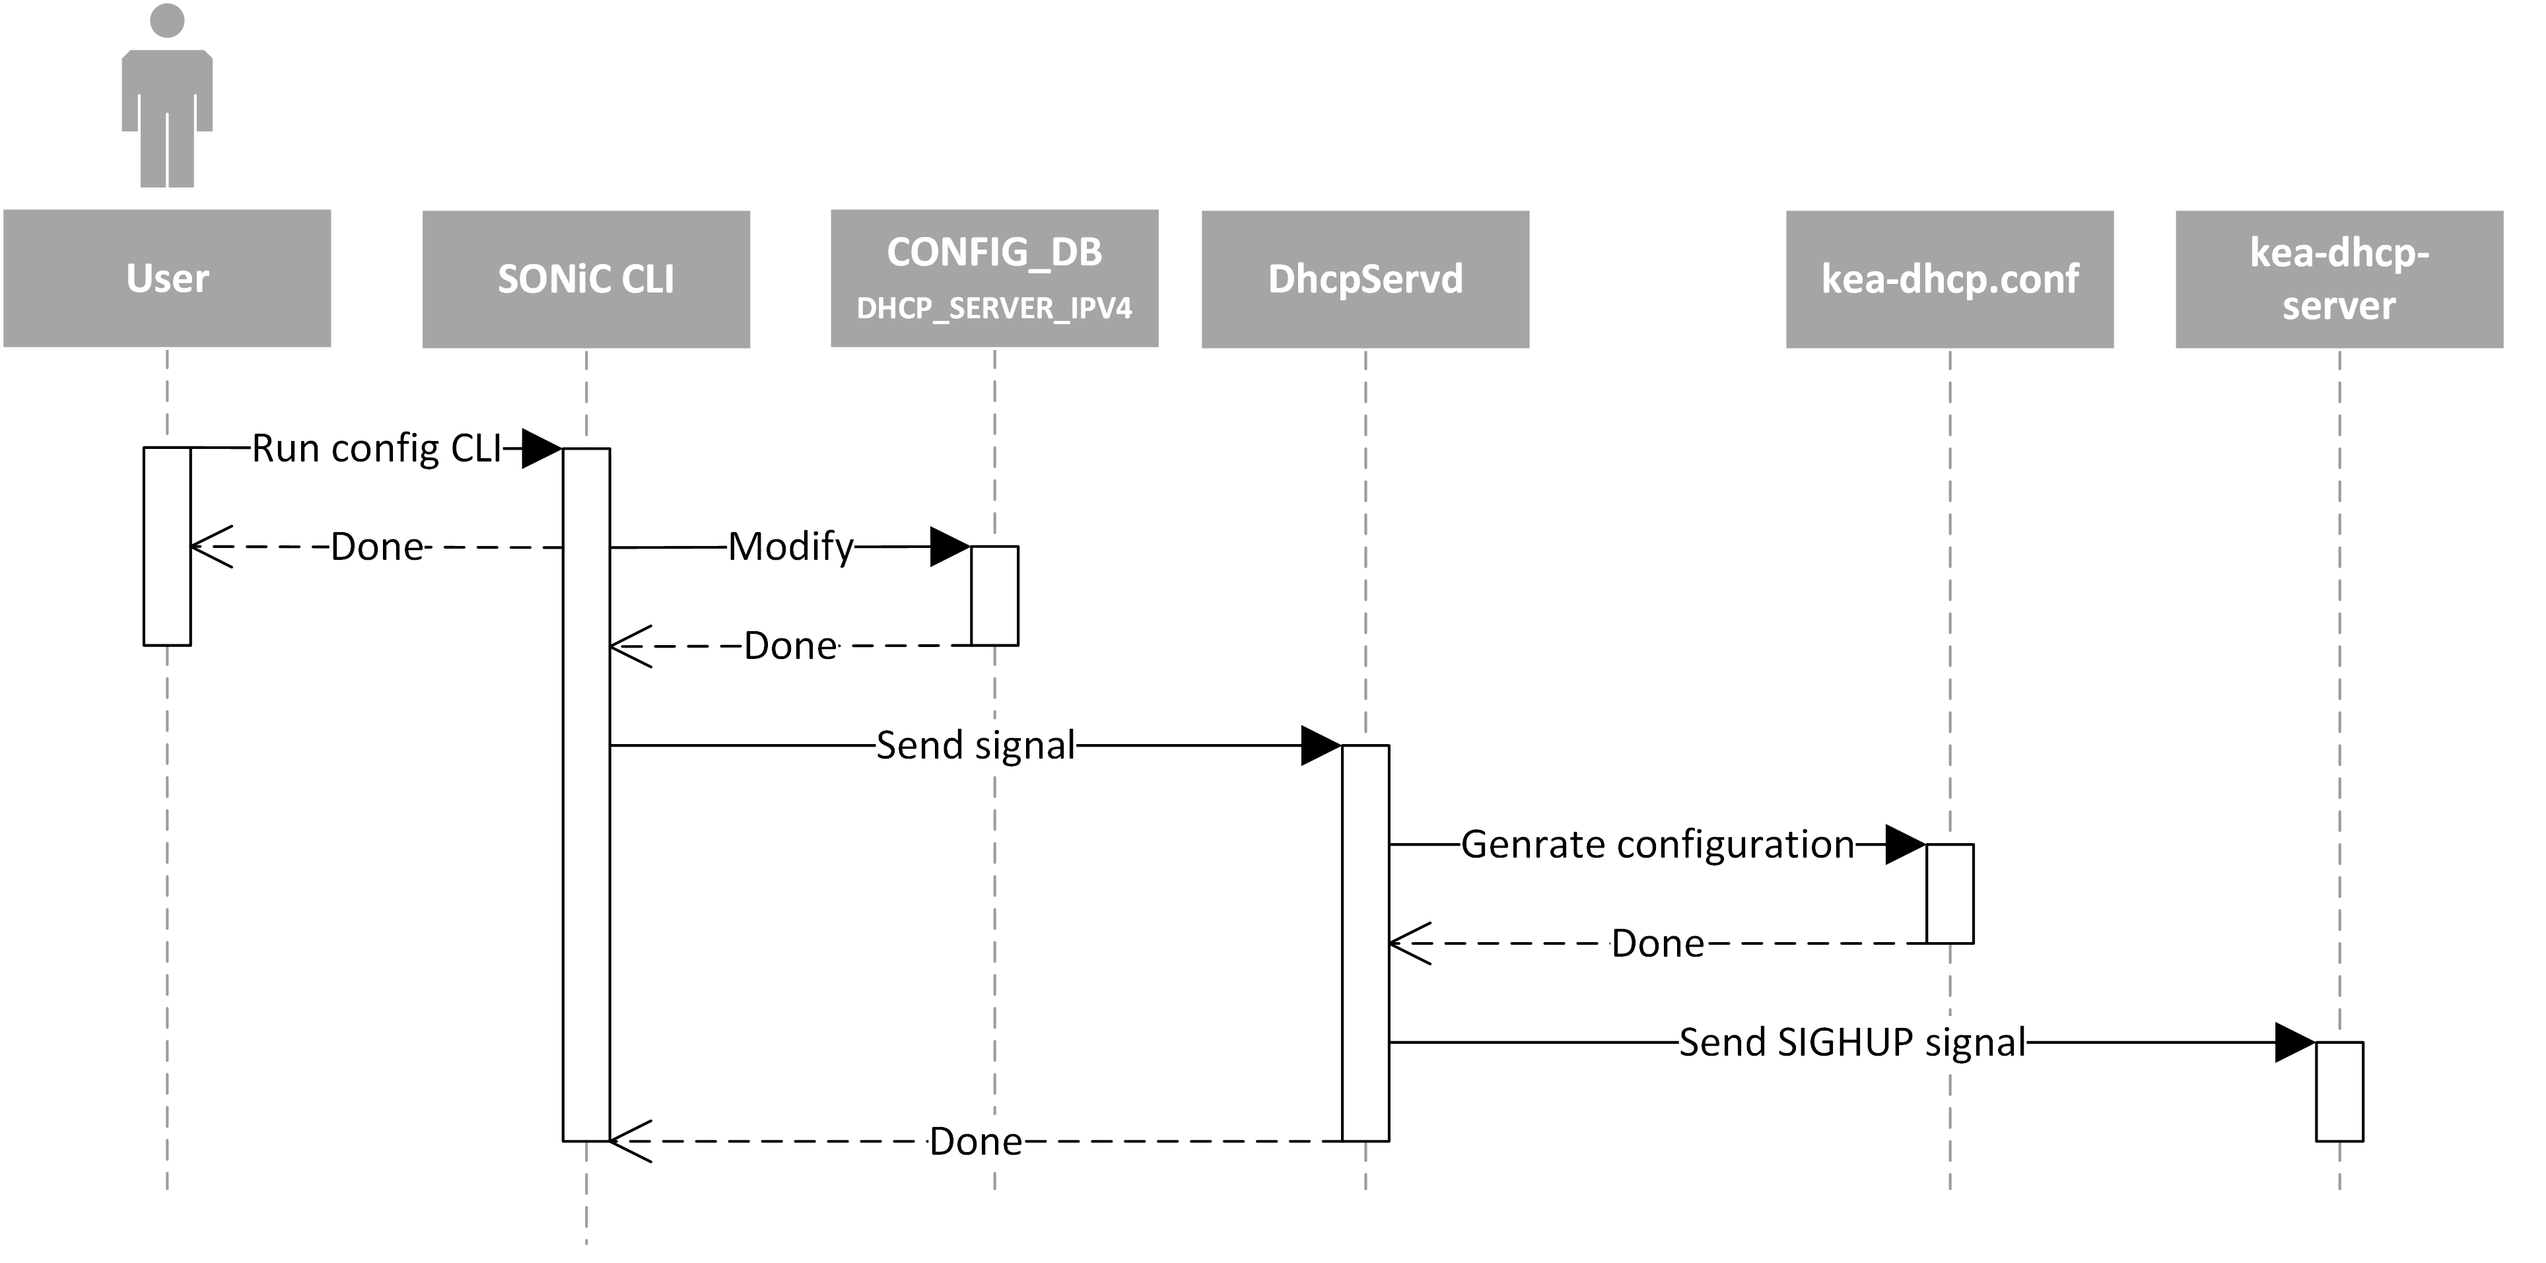
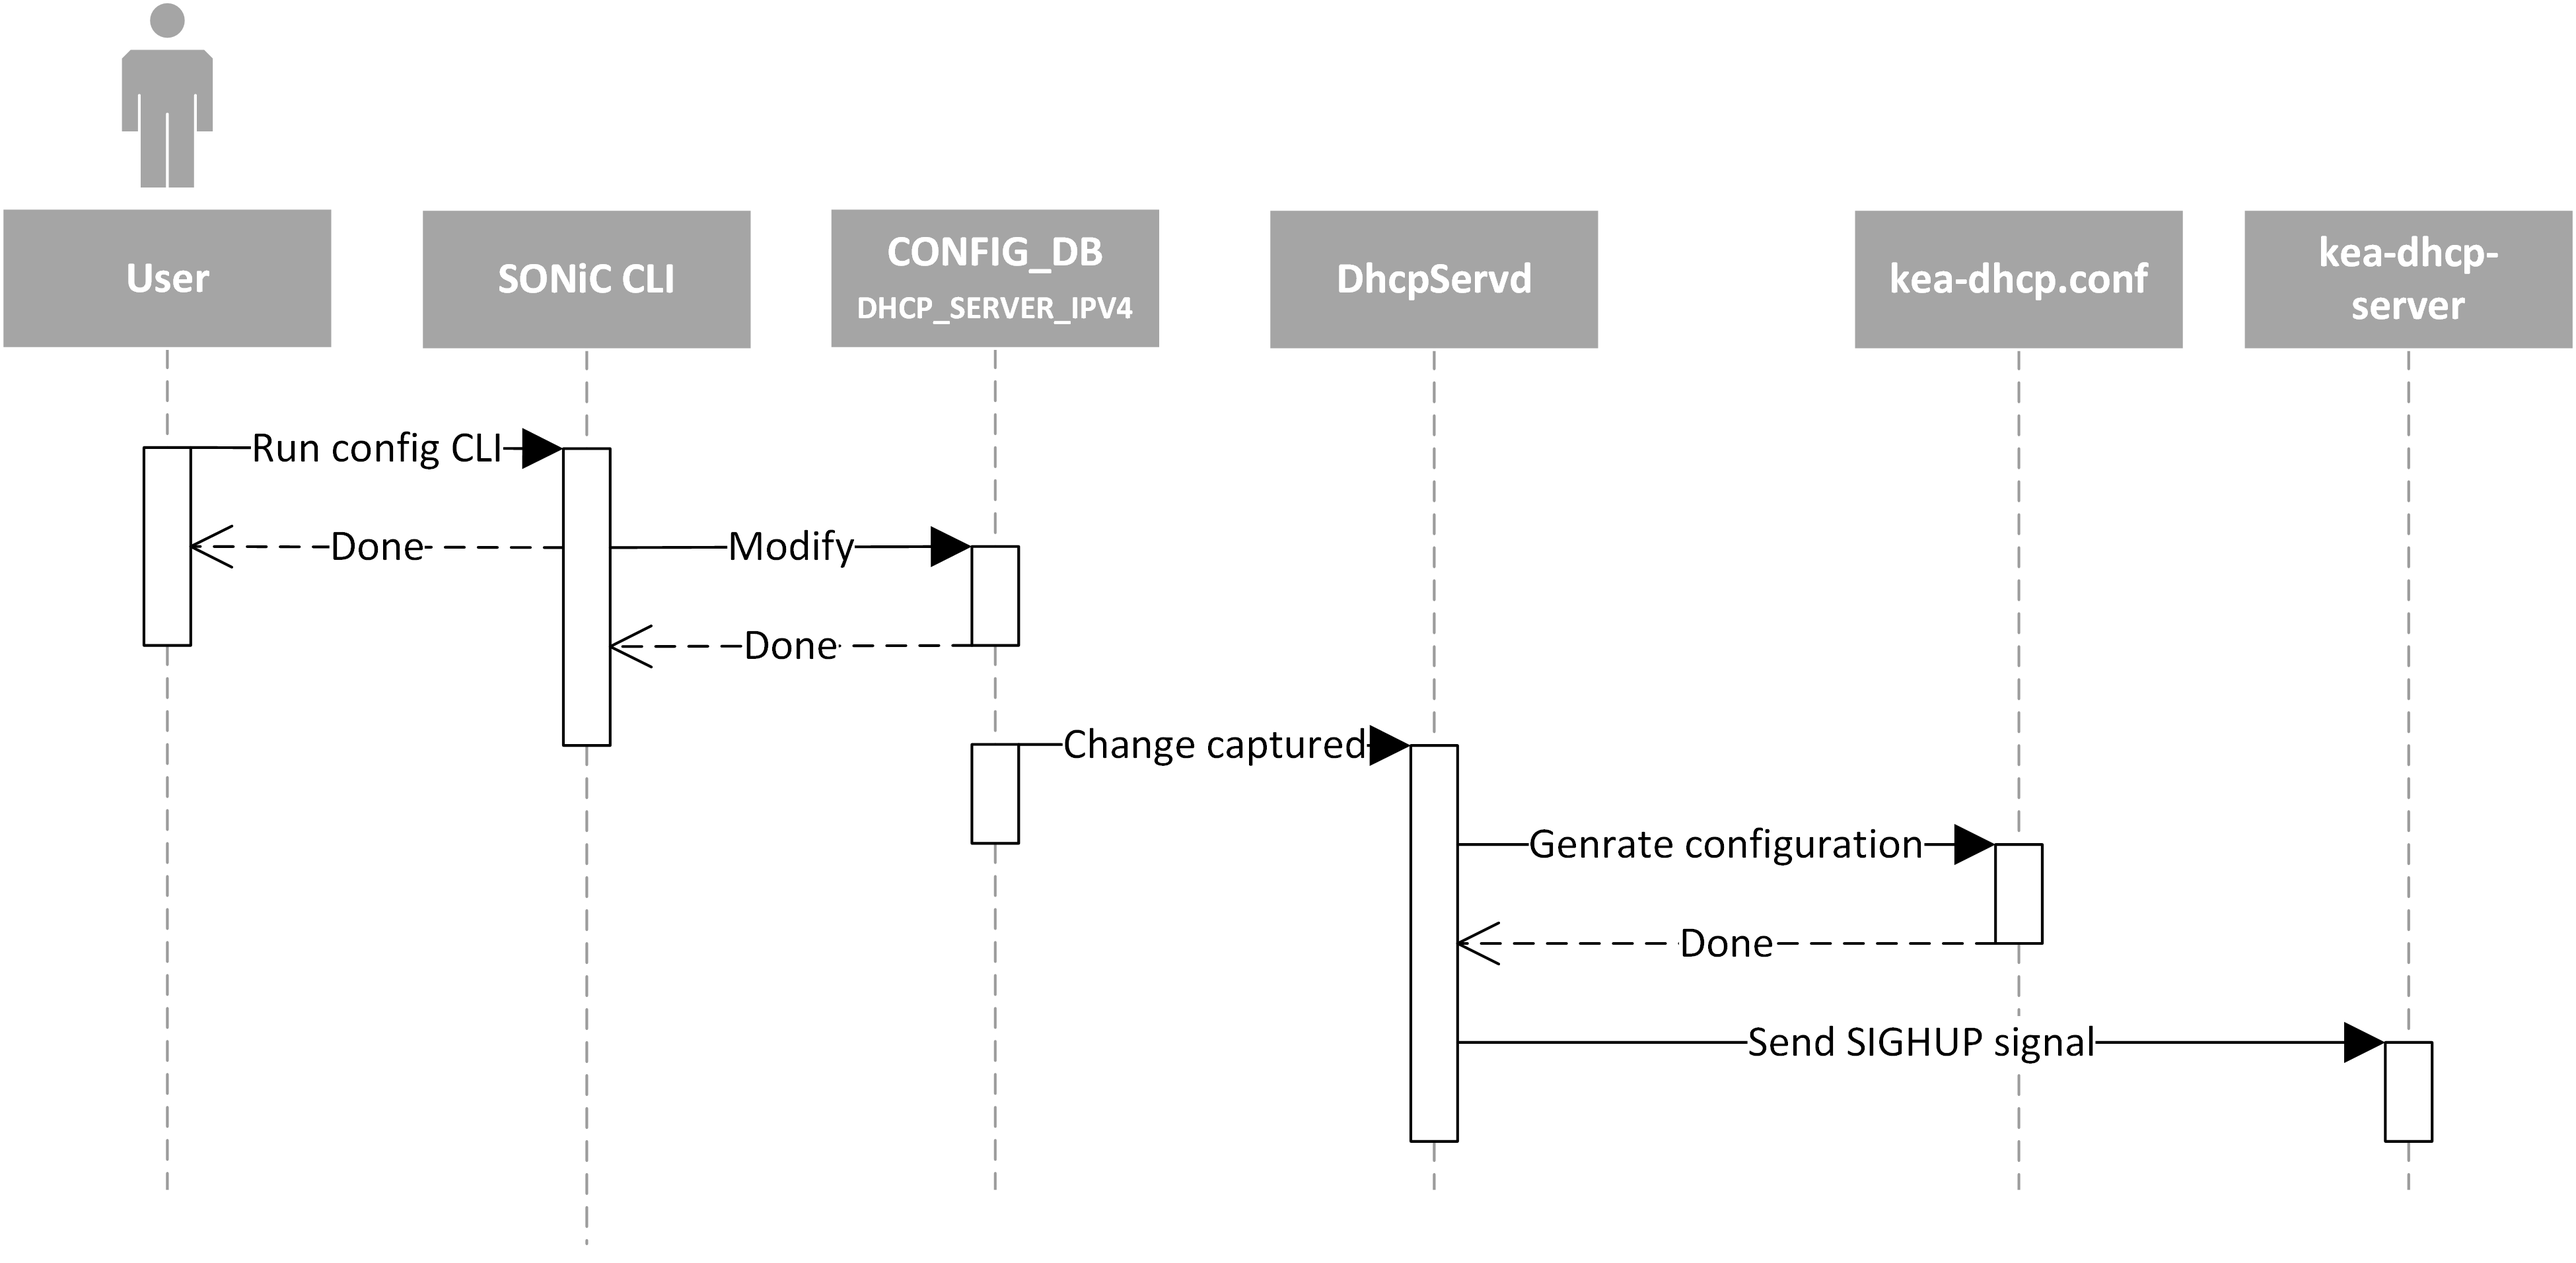
Add dhcrelay related

diff --git a/doc/dhcp_server/port_based_dhcp_server_high_level_design.md b/doc/dhcp_server/port_based_dhcp_server_high_level_design.md
@@ -25,17 +25,20 @@
         - [Generate Config](#generate-config)
         - [Update Lease](#update-lease)
     - [Customize DHCP Packet Options](#customize-dhcp-packet-options)
+    - [DHCP Relay Daemon](#dhcp-relay-daemon)
     - [DB Changes](#db-changes)
         - [Config DB](#config-db)
-            - [Yang Model](#yang-model)
             - [DB Objects](#db-objects)
+            - [Yang Model](#yang-model)
         - [State DB](#state-db)
-            - [Yang Model](#yang-model)
             - [DB Objects](#db-objects)
+            - [Yang Model](#yang-model)
     - [Flow Diagrams](#flow-diagrams)
         - [DHCP Server Flow](#dhcp-server-flow)
         - [Config Change Flow](#config-change-flow)
         - [Lease Update Flow](#lease-update-flow)
+        - [Start flow of dhcprelayd](#start-flow-of-dhcprelayd)
+        - [Work flow of dhcprelayd capture db change](#work-flow-of-dhcprelayd-capture-db-change)
 - [CLI](#cli)
     - [Config CLI](#config-cli)
     - [Show CLI](#show-cli)
@@ -47,6 +50,7 @@
     - [Test Plan](#test-plan)
 
 <!-- /TOC -->
+
 
 # Revision
 
@@ -98,11 +102,11 @@ Configuration of DHCP server feature can be done via:
 ## Design Overview
 We use kea-dhcp-server to reply DHCP request packet. kea-dhcp-server natively supports to assign IPs by mac or contents in DHCP packet (like client id or other options), but in our scenario kea-dhcp-server need to know which interface this packet come from. And SONiC has integrated dhcrelay, which can add interface information to option82 in packet when it relay DHCP packet. So we use it to add interface information.
 
-<div align="center"> <img src=images/overview_kea.png width=570 /> </div>
-
 In our design, dhcp_relay container works on host network mode as before. And dhcp_server container works on bridge network mode, means that it can communicate with switch network only via eth0.
 
 For broadcast packet (discover, request) sent by client, obviously it would be routed to the related DHCP interface. For unicast packet (release), client will get server IP from Option 54 (server identifier) in DHCP reply packet receivced previously. But in our scenario, server identifier is the ip of `eth0` inside dhcp_server container (240.127.1.2), packet with this destination IP cannot be routed successfully. So we need to specify that kea-dhcp-server replies DHCP request with Option 54 filled with IP of DHCP interface (which is the downstream interface IP of dhcrelay), to let client take relay as server and send unicast packet to relay, and relay would transfer this packet to the real server.
+
+<div align="center"> <img src=images/overview_kea.png width=570 /> </div>
 
 Belows are sample configurations for dhcrelay and kea-dhcp-server:
 
@@ -134,9 +138,15 @@ Belows are sample configurations for dhcrelay and kea-dhcp-server:
           "pools": [
             {
               // Assign ip from this pool for packet tagged as "hostname-etp1"
-              "pool": "192.168.0.1 - 192.168.0.1",
+              "pool": "192.168.0.2 - 192.168.0.2",
               "client-class": "hostname-etp1"
             }
+          ],
+          "option-data": [
+              {
+                  "name": "dhcp-server-identifier",
+                  "data": "192.168.0.1"
+              }
           ]
         }
       ]
@@ -166,7 +176,7 @@ A new container dhcp_server based on debian:bookworm, is created to hold DHCP Se
 ## DHCP Server Daemon
 ### Generate Config
 
-dhcpservd is to generate configuration file for kea-dhcp-server while DHCP Server config in CONFIG_DB changed, and then send SIGHUP signal to kea-dhcp-server process to let new config take affect.
+dhcpservd is to generate configuration file for kea-dhcp-server while DHCP Server config in CONFIG_DB changed, and then send SIGHUP signal to kea-dhcp-server process to let new config take effect.
 <div align="center"> <img src=images/dhcp_server_block_new_diagram.png width=530 /> </div>
 
 ### Update Lease
@@ -177,6 +187,11 @@ kea-dhcp-server supports to specify a customize script (`/tmp/lease_update.sh`) 
 ```JSON
 {
   "Dhcp4": {
+    "lease-database": {
+        "type": "memfile",
+        "persist": true,
+        "name": "/tmp/kea-lease.csv"
+    },
     "hooks-libraries": [
       {
           "library": "/usr/lib/x86_64-linux-gnu/kea/hooks/libdhcp_run_script.so",
@@ -189,12 +204,19 @@ kea-dhcp-server supports to specify a customize script (`/tmp/lease_update.sh`) 
   }
 }
 ```
+```
+address,hwaddr,client_id,valid_lifetime,expire,subnet_id,fqdn_fwd,fqdn_rev,hostname,state,user_context,pool_id
+192.168.0.2,aa:bb:cc:dd:ee:ff,,3600,1694000905,1,0,0,hostname,0,,0
+192.168.0.131,aa:aa:cc:dd:ee:ff,,3600,1694000909,1,0,0,hostname,0,,1
+192.168.0.131,aa:aa:cc:dd:ee:ff,,0,1693997309,1,0,0,hostname,0,,1
+192.168.0.131,aa:aa:cc:dd:ee:ff,,0,1693997309,1,0,0,,2,,1
+192.168.0.131,aa:aa:cc:dd:ee:ff,,3600,1694000915,1,0,0,hostname,0,,1
+192.168.0.2,aa:bb:cc:dd:ee:ff,,0,1693997305,1,0,0,hostname,0,,0
+```
 
 ## Customize DHCP Packet Options
 
-We can customize DHCP Packet options per DHCP interface by kea-dhcp-server. 
-
-We can set customized options for each DHCP interface, all DHCP clients connected to this interface share one configuration, and DHCP server would add DHCP options by config to each DHCP packet sent to client.
+We can customize DHCP Packet options per DHCP interface by kea-dhcp-server, all DHCP clients connected to this interface share one configuration, and DHCP server would add DHCP options by config to each DHCP packet sent to client.
 ```JSON
 {
   "Dhcp4": {
@@ -223,10 +245,15 @@ Have to be aware of is that below options are not supported to customize, becaus
 
 Currently support text, ipv4-address, uint8, uint16, uint32.
 
+## DHCP Relay Daemon
+For scenario of dhcp_server feature is enabled, we need a daemon process inside dhcp_relay container to manage dhcrelay processes. dhcprelayd would subcribe VLAN/VLAN_MEMBER/DHCP_SERVER_IPV4* table in config_db, and when dhcp_relay container restart or related config changed, dhcprelayd will kill/start/restart dhcrelay process.
+
+<div align="center"> <img src=images/dhcprelayd_flow.png width=350 /> </div>
+
 ## DB Changes
-We have two mainly DB changes:
-- Configuration tables for the DHCP server entries.
-- State tables for the DHCP server lease entries.
+We have two main DB changes:
+- CONFIG_DB change.
+- STATE_DB change.
 
 ### Config DB
 Following table changes would be added in Config DB, including **DHCP_SERVER_IPV4** table, **DHCP_SERVER_IPV4_RANGE** table, **DHCP_SERVER_IPV4_PORT** table and **DHCP_SERVER_IPV4_CUSTOMIZED_OPTIONS** table.
@@ -235,6 +262,56 @@ These new tables are introduced to specify configuration of DHCP Server.
 
 Below is the sample:
 <div align="center"> <img src=images/config_example.png width=530 /> </div>
+
+#### DB Objects
+```JSON
+{
+  "DHCP_SERVER_IPV4": {
+      "Vlan100": {
+          "gateway": "100.1.1.1",
+          "lease_time": "3600",
+          "mode": "PORT",
+          "netmask": "255.255.255.0",
+          "customized_options": [
+              "option60"
+          ],
+          "state": "enabled"
+      }
+  },
+  "DHCP_SERVER_IPV4_CUSTOMIZED_OPTIONS": {
+      "option60": {
+          "id": "60",
+          "type": "text",
+          "value": "dummy_value"
+      }
+  },
+  "DHCP_SERVER_IPV4_RANGE": {
+      "range1": {
+          "ranges": [
+              "100.1.1.3",
+              "100.1.1.5"
+          ]
+      }
+  },
+  "DHCP_SERVER_IPV4_PORT": {
+      "Vlan100|PortChannel0003": {
+          "ips": [
+              "100.1.1.10"
+          ]
+      },
+      "Vlan100|PortChannel2": {
+          "ranges": [
+              "range1"
+          ]
+      }
+  },
+  "DHCP_SERER_IPV4_IP": {
+      "eth0": {
+          "ip": "240.127.1.2"
+      }
+  }
+}
+```
 
 #### Yang Model
 [[yang][dhcp_server] Add dhcp_server_ipv4 yang model](https://github.com/sonic-net/sonic-buildimage/pull/15955)
@@ -434,55 +511,31 @@ module sonic-dhcp-server-ipv4 {
 }
 ```
 
+### State DB
+Following table changes would be added in State DB, including **DHCP_SERVER_IPV4_LEASE** table and **DHCP_SERVER_IPV4_SERVER_IP** table.
+
 #### DB Objects
 ```JSON
 {
-  "DHCP_SERVER_IPV4": {
-      "Vlan100": {
-          "gateway": "100.1.1.1",
-          "lease_time": "3600",
-          "mode": "PORT",
-          "netmask": "255.255.255.0",
-          "customized_options": [
-              "option60"
-          ],
-          "state": "enabled"
-      }
+  "DHCP_SERVER_IPV4_LEASE": {
+    "Vlan1000|10:70:fd:b6:13:00": {
+      "lease_start": "1677640581", // Start time of lease, unix time
+      "lease_end": "1677641481", // End time of lease
+      "ip": "192.168.0.1"
+    },
+    "Vlan1000|10:70:fd:b6:13:01": {
+      "lease_start": "1677640581",
+      "lease_end": "1677641481",
+      "ip": "192.168.0.2"
+    }
   },
-  "DHCP_SERVER_IPV4_CUSTOMIZED_OPTIONS": {
-      "option60": {
-          "id": "60",
-          "type": "text",
-          "value": "dummy_value"
-      }
-  },
-  "DHCP_SERVER_IPV4_RANGE": {
-      "range1": {
-          "ranges": [
-              "100.1.1.3",
-              "100.1.1.5"
-          ]
-      }
-  },
-  "DHCP_SERVER_IPV4_PORT": {
-      "Vlan100|PortChannel0003": {
-          "ips": [
-              "100.1.1.10"
-          ]
-      },
-      "Vlan100|PortChannel2": {
-          "ranges": [
-              "range1"
-          ]
-      }
+  "DHCP_SERVER_IPV4_SERVER_IP": {
+    "eth0": {
+      "ip": "240.127.1.2"
+    }
   }
 }
 ```
-
-### State DB
-Following table changes would be added in State DB, including table and **DHCP_SERVER_IPV4_LEASE** table.
-
-These new tables are introduced to count different type of DHCP packet and record lease information.
 
 #### Yang Model
 ```yang
@@ -513,26 +566,21 @@ module sonic-dhcp-server-ipv4 {
       }
     }
     /* end of container DHCP_SERVER_IPV4_LEASE */
-  }
-  /* end of container sonic-dhcp-server-ipv4 */
-}
-```
-
-#### DB Objects
-```JSON
-{
-  "DHCP_SERVER_IPV4_LEASE": {
-    "Vlan1000|10:70:fd:b6:13:00": {
-      "lease_start": "1677640581", // Start time of lease, unix time
-      "lease_end": "1677641481", // End time of lease
-      "ip": "192.168.0.1"
-    },
-    "Vlan1000|10:70:fd:b6:13:01": {
-      "lease_start": "1677640581",
-      "lease_end": "1677641481",
-      "ip": "192.168.0.2"
+    container DHCP_SERVER_IPV4_SERVER_IP {
+      description "DHCP_SERVER_IPV4_SERVER_IP part of state_db";
+      list DHCP_SERVER_IPV4_SERVER_IP_list {
+        key "name";
+        leaf name {
+          type string;          
+        }
+        leaf ip {
+          description "IP address of dhcp_server";
+          type inet:ipv4-address
+        }
+      }
     }
   }
+  /* end of container sonic-dhcp-server-ipv4 */
 }
 ```
 
@@ -542,14 +590,21 @@ This sequence figure describe the work flow for reply DHCP packet.
 <div align="center"> <img src=images/server_flow.png width=500 /> </div>
 
 ### Config Change Flow
-This sequence figure describe the work flow for config_db changed CLI.
+This sequence figure describe the work flow of dhcpservd detect config_db changed CLI.
 <div align="center"> <img src=images/config_change_new_flow.png width=600 /> </div>
-<div align="center"> <img src=images/config_change_new_flow_vlan.png width=680 /> </div>
 
 ### Lease Update Flow
 Below sequence figure describes the work flow how kea-dhcp-server updates lease table while new lease is created.
 
 <div align="center"> <img src=images/lease_update_flow_new.png width=480 /> </div>
+
+### Start flow of dhcprelayd
+This sequence figure describe the work flow of dhcprelayd start. (Under enabled dhcp_server feature)
+<div align="center"> <img src=images/dhcprelayd_sequence.png width=670 /> </div>
+
+### Work flow of dhcprelayd capture db change
+This sequence figure describe the work flow of dhcprelayd capture DHCP_SERVER_IPV4 table change. (Under enabled dhcp_server feature)
+<div align="center"> <img src=images/dhcprelayd_sequence_disable.png width=650 /> </div>
 
 # CLI
 * config CLI
@@ -854,7 +909,7 @@ This command is used to show dhcp_server lease.
   |Case Description|Expected res|
   |:-|:-|
   |Add with --infer_gw_nm, --mode=PORT|Add success, state is disabled|
-  |Add with --mode=DYNAMIC |Add failed because port not supported|
+  |Add with --mode=DYNAMIC |Add failed because mode not supported|
   |Add interface not exist|Add failed|
   |Add without --mode |Add failed because mode is missing|
   |Add without --infer_gw_nm, --gateway and --netmask |Add failed because netmask and gateway is not specified|
